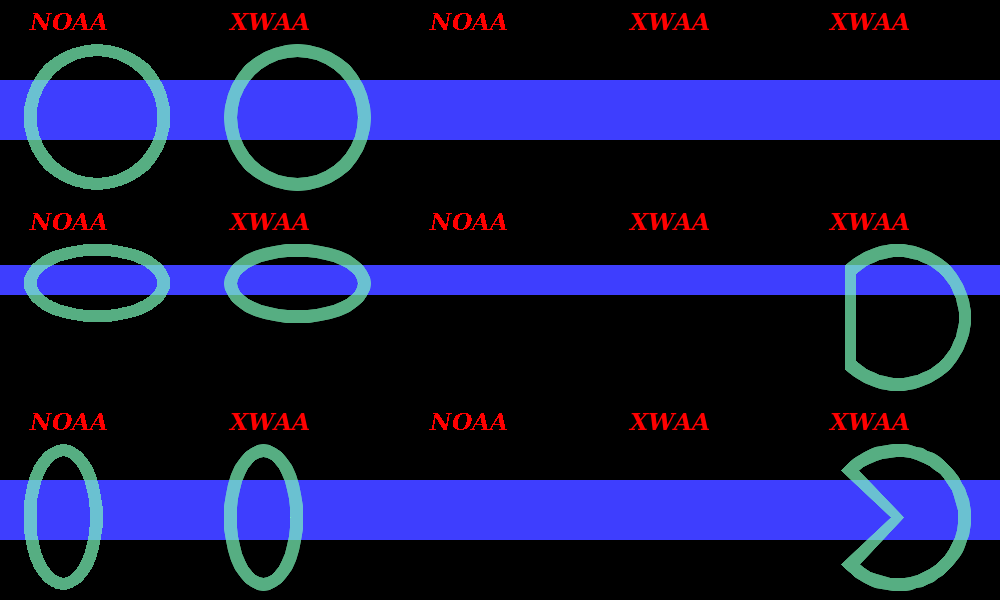
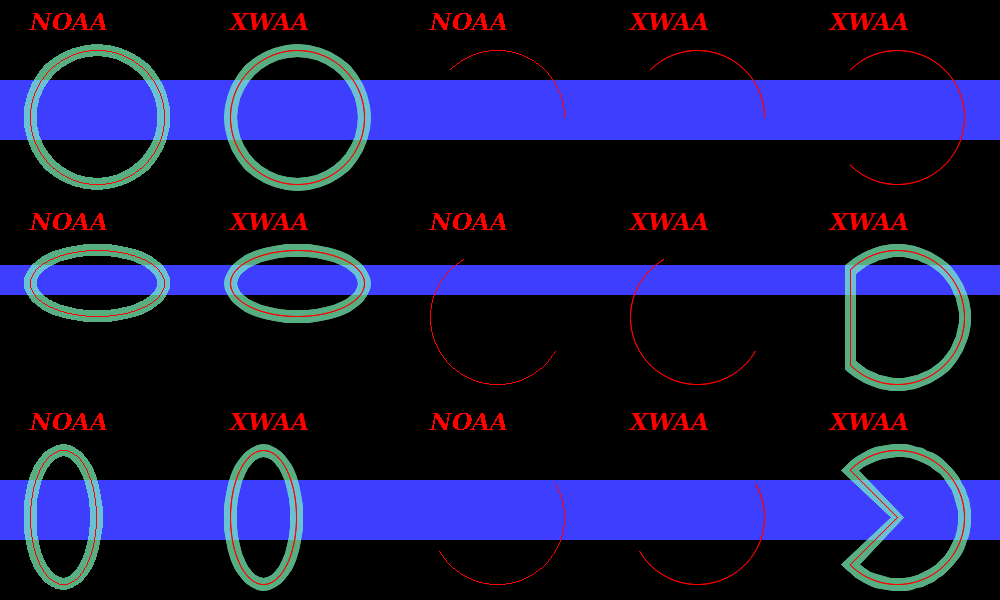
Cleanup on Gfx/Math.h and adding visual comparison for thick ellipse/arc using normal ellipse/arc

diff --git a/src/Pt-Gfx/tests/ImagePainterTest2_Draw_Thick.cpp b/src/Pt-Gfx/tests/ImagePainterTest2_Draw_Thick.cpp
@@ -312,69 +312,84 @@ static void testDrawThickEllipseArc(const char* title, Image& image, Painter& pa
     if(ip2) ip2->setAntiAliasingMode(AntiAliasingMode::None);
     painter.setPen(draw); painter.drawEllipse( PointF (30, 50), SizeF(135, 135) );
     painter.setPen(text); painter.drawText( PointF(30, 30), "NOAA" );
+                          painter.drawEllipse( PointF (30, 50), SizeF(135, 135) );
 
     if(ip2) ip2->setAntiAliasingMode(AntiAliasingMode::Standard);
     painter.setPen(draw); painter.drawEllipse( PointF (30 + 200, 50), SizeF(135, 135) );
     painter.setPen(text); painter.drawText( PointF(30 + 200, 30), "XWAA" );
+                          painter.drawEllipse( PointF (30 + 200, 50), SizeF(135, 135) );
 
     if(ip2) {
         ip2->setAntiAliasingMode(AntiAliasingMode::None);
         painter.setPen(draw); ip2->drawArc( PointF (30 + 400, 50), SizeF(135, 135), 0, 135, ArcMode::Open );
         painter.setPen(text); ip2->drawText( PointF(30 + 400, 30), "NOAA" );
+                              ip2->drawArc( PointF (30 + 400, 50), SizeF(135, 135), 0, 135, ArcMode::Open );
 
         ip2->setAntiAliasingMode(AntiAliasingMode::Standard);
         painter.setPen(draw); ip2->drawArc( PointF (30 + 600, 50), SizeF(135, 135), 0, 135, ArcMode::Open );
         painter.setPen(text); ip2->drawText( PointF(30 + 600, 30), "XWAA" );
+                              ip2->drawArc( PointF (30 + 600, 50), SizeF(135, 135), 0, 135, ArcMode::Open );
 
         ip2->setAntiAliasingMode(AntiAliasingMode::Standard);
         painter.setPen(draw); ip2->drawArc( PointF (30 + 800, 50), SizeF(135, 135), -135, 135, ArcMode::Open );
         painter.setPen(text); ip2->drawText( PointF(30 + 800, 30), "XWAA" );
+                              ip2->drawArc( PointF (30 + 800, 50), SizeF(135, 135), -135, 135, ArcMode::Open );
     }
 
     // Second row
     if(ip2) ip2->setAntiAliasingMode(AntiAliasingMode::None);
     painter.setPen(draw); painter.drawEllipse( PointF (30, 50 + 200), SizeF(135, 67) );
     painter.setPen(text); painter.drawText( PointF(30, 30 + 200), "NOAA" );
+                          painter.drawEllipse( PointF (30, 50 + 200), SizeF(135, 67) );
 
     if(ip2) ip2->setAntiAliasingMode(AntiAliasingMode::Standard);
     painter.setPen(draw); painter.drawEllipse( PointF (30 + 200, 50 + 200), SizeF(135, 67) );
     painter.setPen(text); painter.drawText( PointF(30 + 200, 30 + 200), "XWAA" );
+                          painter.drawEllipse( PointF (30 + 200, 50 + 200), SizeF(135, 67) );
 
     if(ip2) {
         ip2->setAntiAliasingMode(AntiAliasingMode::None);
         painter.setPen(draw); ip2->drawArc( PointF (30 + 400, 50 + 200), SizeF(135, 135), 120, 330, ArcMode::Open );
         painter.setPen(text); ip2->drawText( PointF(30 + 400, 30 + 200), "NOAA" );
+                              ip2->drawArc( PointF (30 + 400, 50 + 200), SizeF(135, 135), 120, 330, ArcMode::Open );
 
         ip2->setAntiAliasingMode(AntiAliasingMode::Standard);
         painter.setPen(draw); ip2->drawArc( PointF (30 + 600, 50 + 200), SizeF(135, 135), 120, 330, ArcMode::Open );
         painter.setPen(text); ip2->drawText( PointF(30 + 600, 30 + 200), "XWAA" );
+                              ip2->drawArc( PointF (30 + 600, 50 + 200), SizeF(135, 135), 120, 330, ArcMode::Open );
 
         ip2->setAntiAliasingMode(AntiAliasingMode::Standard);
         painter.setPen(draw); ip2->drawArc( PointF (30 + 800, 50 + 200), SizeF(135, 135), -135, 135, ArcMode::Chord );
         painter.setPen(text); ip2->drawText( PointF(30 + 800, 30 + 200), "XWAA" );
+                              ip2->drawArc( PointF (30 + 800, 50 + 200), SizeF(135, 135), -135, 135, ArcMode::Chord );
     }
 
     // Third row
     if(ip2) ip2->setAntiAliasingMode(AntiAliasingMode::None);
     painter.setPen(draw); painter.drawEllipse( PointF (30, 50 + 400), SizeF(67, 135) );
     painter.setPen(text); painter.drawText( PointF(30, 30 + 400), "NOAA" );
+                          painter.drawEllipse( PointF (30, 50 + 400), SizeF(67, 135) );
 
     if(ip2) ip2->setAntiAliasingMode(AntiAliasingMode::Standard);
     painter.setPen(draw); painter.drawEllipse( PointF (30 + 200, 50 + 400), SizeF(67, 135) );
     painter.setPen(text); painter.drawText( PointF(30 + 200, 30 + 400), "XWAA" );
+                          painter.drawEllipse( PointF (30 + 200, 50 + 400), SizeF(67, 135) );
 
     if(ip2) {
         ip2->setAntiAliasingMode(AntiAliasingMode::None);
         painter.setPen(draw); ip2->drawArc( PointF (30 + 400, 50 + 400), SizeF(135, 135), -150, 30, ArcMode::Open );
         painter.setPen(text); ip2->drawText( PointF(30 + 400, 30 + 400), "NOAA" );
+                              ip2->drawArc( PointF (30 + 400, 50 + 400), SizeF(135, 135), -150, 30, ArcMode::Open );
 
         ip2->setAntiAliasingMode(AntiAliasingMode::Standard);
         painter.setPen(draw); ip2->drawArc( PointF (30 + 600, 50 + 400), SizeF(135, 135), -150, 30, ArcMode::Open );
         painter.setPen(text); ip2->drawText( PointF(30 + 600, 30 + 400), "XWAA" );
+                              ip2->drawArc( PointF (30 + 600, 50 + 400), SizeF(135, 135), -150, 30, ArcMode::Open );
 
         ip2->setAntiAliasingMode(AntiAliasingMode::Standard);
         painter.setPen(draw); ip2->drawArc( PointF (30 + 800, 50 + 400), SizeF(135, 135), -135, 135, ArcMode::Pie );
         painter.setPen(text); ip2->drawText( PointF(30 + 800, 30 + 400), "XWAA" );
+                              ip2->drawArc( PointF (30 + 800, 50 + 400), SizeF(135, 135), -135, 135, ArcMode::Pie );
     }
 
     sdlPreviewRGB888Buffer(title, image.data(), image.width(), image.height(), !!ip2);

diff --git a/include/Pt/Gfx/Math.h b/include/Pt/Gfx/Math.h
@@ -96,10 +96,10 @@ inline float fastInvSqrt_impl(float x)
 
 inline float fastSin_impl(float x)
 {
-    if (x > Pt::Pi) x -= Pt::PiDouble;
+    if (x > Gfx::Math::Pi) x -= Gfx::Math::PiMul2;
 
-    const float b =  4 / Pt::Pi;
-    const float c = -4 / Pt::PiSqr;
+    const float b =  4 / Gfx::Math::Pi;
+    const float c = -4 / Gfx::Math::PiSqr;
     const float p = 0.225;
     const float y = b * x + c * x * ::fabs(x);
 
@@ -108,8 +108,8 @@ inline float fastSin_impl(float x)
 
 inline float fastCos_impl(float x)
 {
-    x += Pt::PiHalf;
-    if(x > Pt::PiDouble) x -= Pt::PiDouble;
+    x += Gfx::Math::PiDiv2;
+    if(x > Gfx::Math::PiMul2) x -= Gfx::Math::PiMul2;
 
     return Gfx::Math::fastSin_impl(x);
 }
@@ -122,9 +122,9 @@ inline float fastAtan2_impl(float y, float x)
     //           Original code by Volkan SALMA, 2012
 
     if(x == 0.0f) {
-        if(y >  0.0f) return Pt::PiHalf;
+        if(y >  0.0f) return Gfx::Math::PiDiv2;
         if(y == 0.0f) return 0.0f;
-        return -Pt::PiHalf;
+        return -Gfx::Math::PiDiv2;
     }
 
     const float z = y / x;
@@ -133,14 +133,14 @@ inline float fastAtan2_impl(float y, float x)
     if(fabs(z) < 1.0f) {
         atan = z / (1.0f + 0.28f * z * z);
         if(x < 0.0f) {
-            if(y < 0.0f) return atan - Pt::Pi;
-            return atan + Pt::Pi;
+            if(y < 0.0f) return atan - Gfx::Math::Pi;
+            return atan + Gfx::Math::Pi;
         }
     }
 
     else {
-        atan = Pt::PiHalf - z / (z * z + 0.28f);
-        if(y < 0.0f) return atan - Pt::Pi;
+        atan = Gfx::Math::PiDiv2 - z / (z * z + 0.28f);
+        if(y < 0.0f) return atan - Gfx::Math::Pi;
     }
 
     return atan;
@@ -167,11 +167,11 @@ inline float fastInvSqrt(float x)
 
 inline float fastSin(float x)
 { return ::sinf(x); }
-//{ return Gfx::Math::fastSin_impl(x); } // Causes artifacts
+//{ return Gfx::Math::fastSin_impl(x); } // Causes artifacts when used for drawing large shapes
 
 inline float fastCos(float x)
 { return ::cosf(x); }
-//{ return Gfx::Math::fastCos_impl(x); } // Causes artifacts
+//{ return Gfx::Math::fastCos_impl(x); } // Causes artifacts when used for drawing large shapes
 
 inline float fastAtan2(float y, float x)
 { return Gfx::Math::fastAtan2_impl(y, x); }
@@ -180,10 +180,10 @@ inline float convertCartesianToPolarCoordinate(float x, float y)
 {
     // Quadrant I & II
     if(y >= 0)
-        return Gfx::Math::fastAtan2(y, x) * 180 / Pt::Pi;
+        return Gfx::Math::fastAtan2(y, x) * 180.0f / Gfx::Math::Pi;
 
     // Quadrant III && IV
-    return Gfx::Math::fastAtan2(y, x) * 180 / Pt::Pi + 360;
+    return Gfx::Math::fastAtan2(y, x) * 180.0f / Gfx::Math::Pi + 360.0f;
 }
 
 

diff --git a/src/Pt-Gfx/ImagePainter2.cpp b/src/Pt-Gfx/ImagePainter2.cpp
@@ -503,17 +503,6 @@ void ImagePainter2::drawEllipse( const PointF& topLeft, const SizeF& size )
     else {
         // ### TODO ###
     }
-
-#if 1
-    // ### For visual comparison only ###
-    const Point tl( (Pt::int32_t) topLeft.x    (), (Pt::int32_t) topLeft.y     () );
-    const Size  sz( (Pt::int32_t) size   .width(), (Pt::int32_t) size   .height() );
-    const Pen op = _rasterizer->pen();
-    _rasterizer->setPen(Color::fromRgb8(255, 0, 0, 127));
-    _rasterizer->strokeOnePixelEllipseArc(tl, sz, 0, 0, ArcMode::Open);
-    _rasterizer->setPen(op);
-#endif
-
 }
 
 void ImagePainter2::fillEllipse( const PointF& topLeft, const SizeF& size )
@@ -592,16 +581,6 @@ void ImagePainter2::drawArc( const PointF& topLeft, const SizeF& size, float deg
     else {
         // ### TODO ###
     }
-
-#if 1
-    // ### For visual comparison only ###
-    const Point tl( (Pt::int32_t) topLeft.x    (), (Pt::int32_t) topLeft.y     () );
-    const Size  sz( (Pt::int32_t) size   .width(), (Pt::int32_t) size   .height() );
-    const Pen op = _rasterizer->pen();
-    _rasterizer->setPen(Color::fromRgb8(255, 0, 0, 127));
-    _rasterizer->strokeOnePixelEllipseArc(tl, sz, degBegin, degEnd, arcMode);
-    _rasterizer->setPen(op);
-#endif
 }
 
 void ImagePainter2::fillArc( const PointF& topLeft, const SizeF& size, float degBegin, float degEnd, const ArcMode& arcMode )
